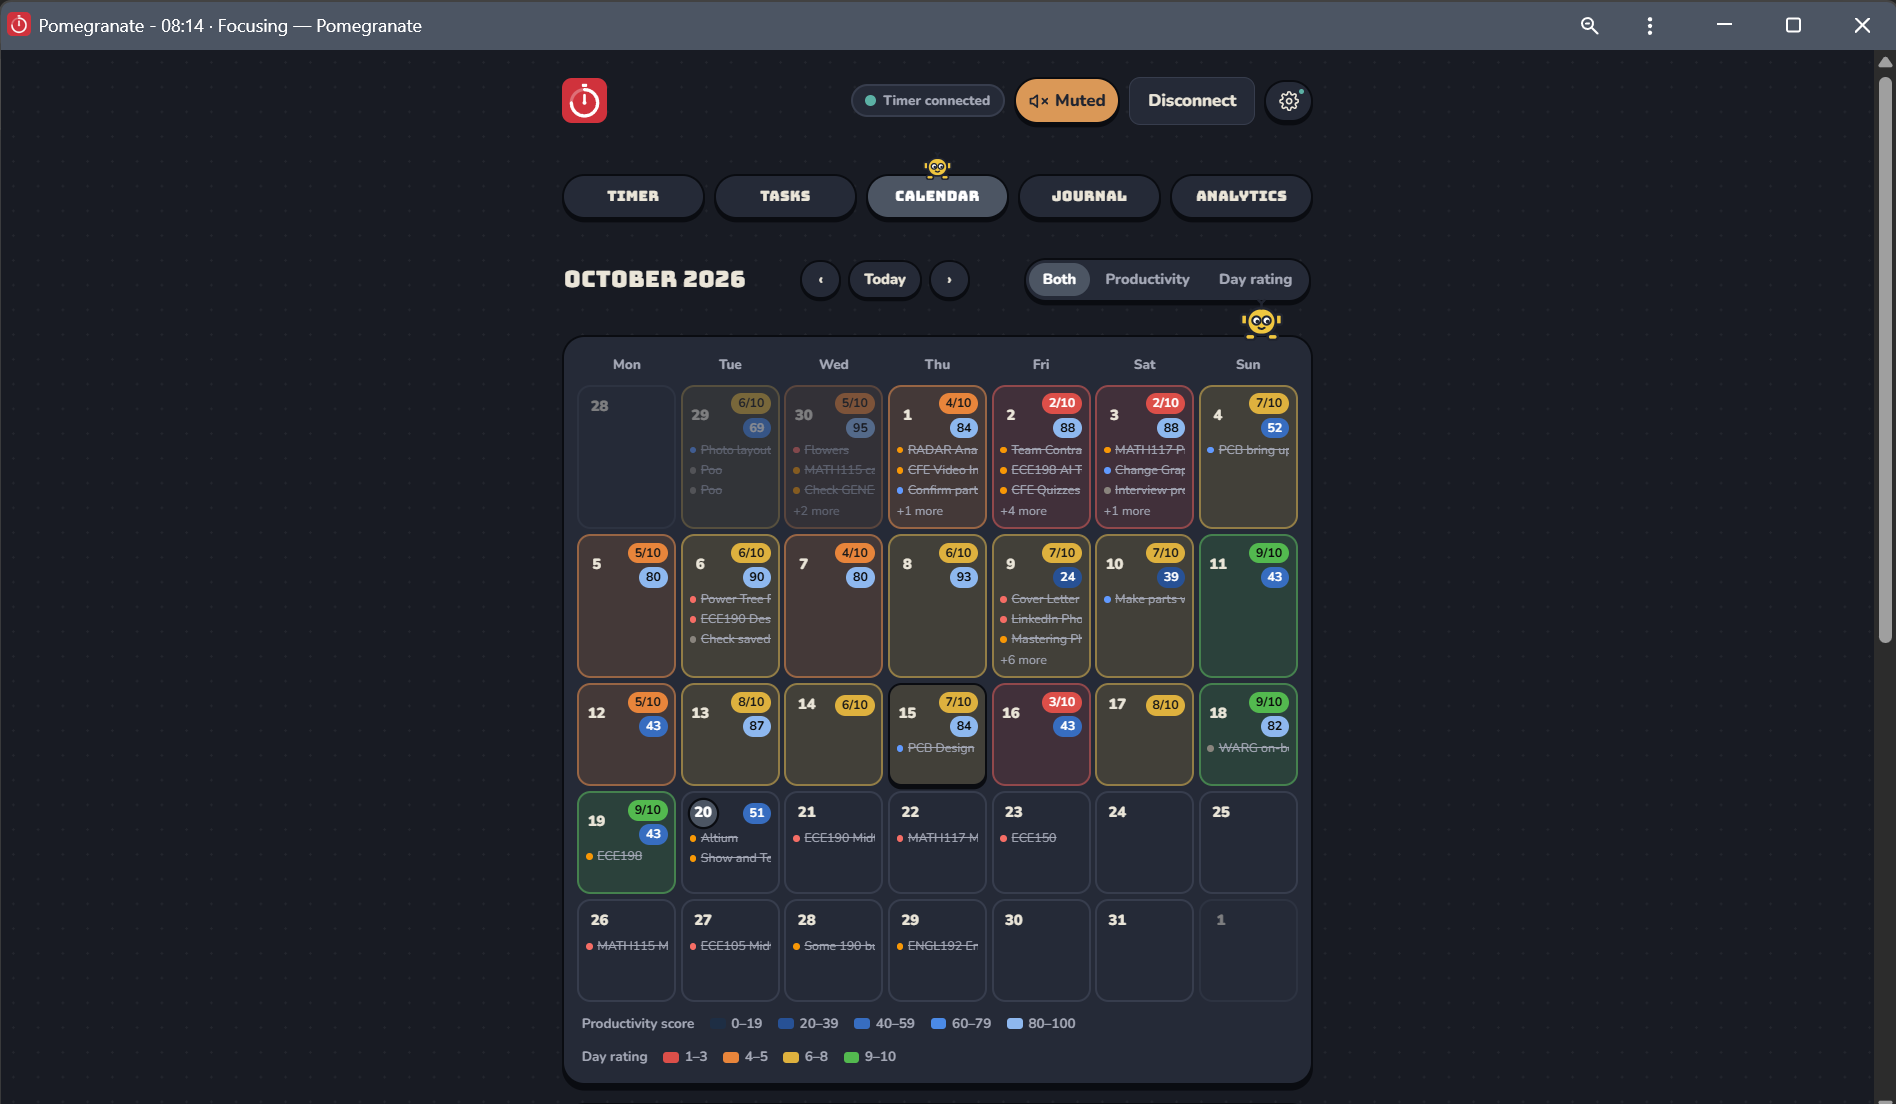
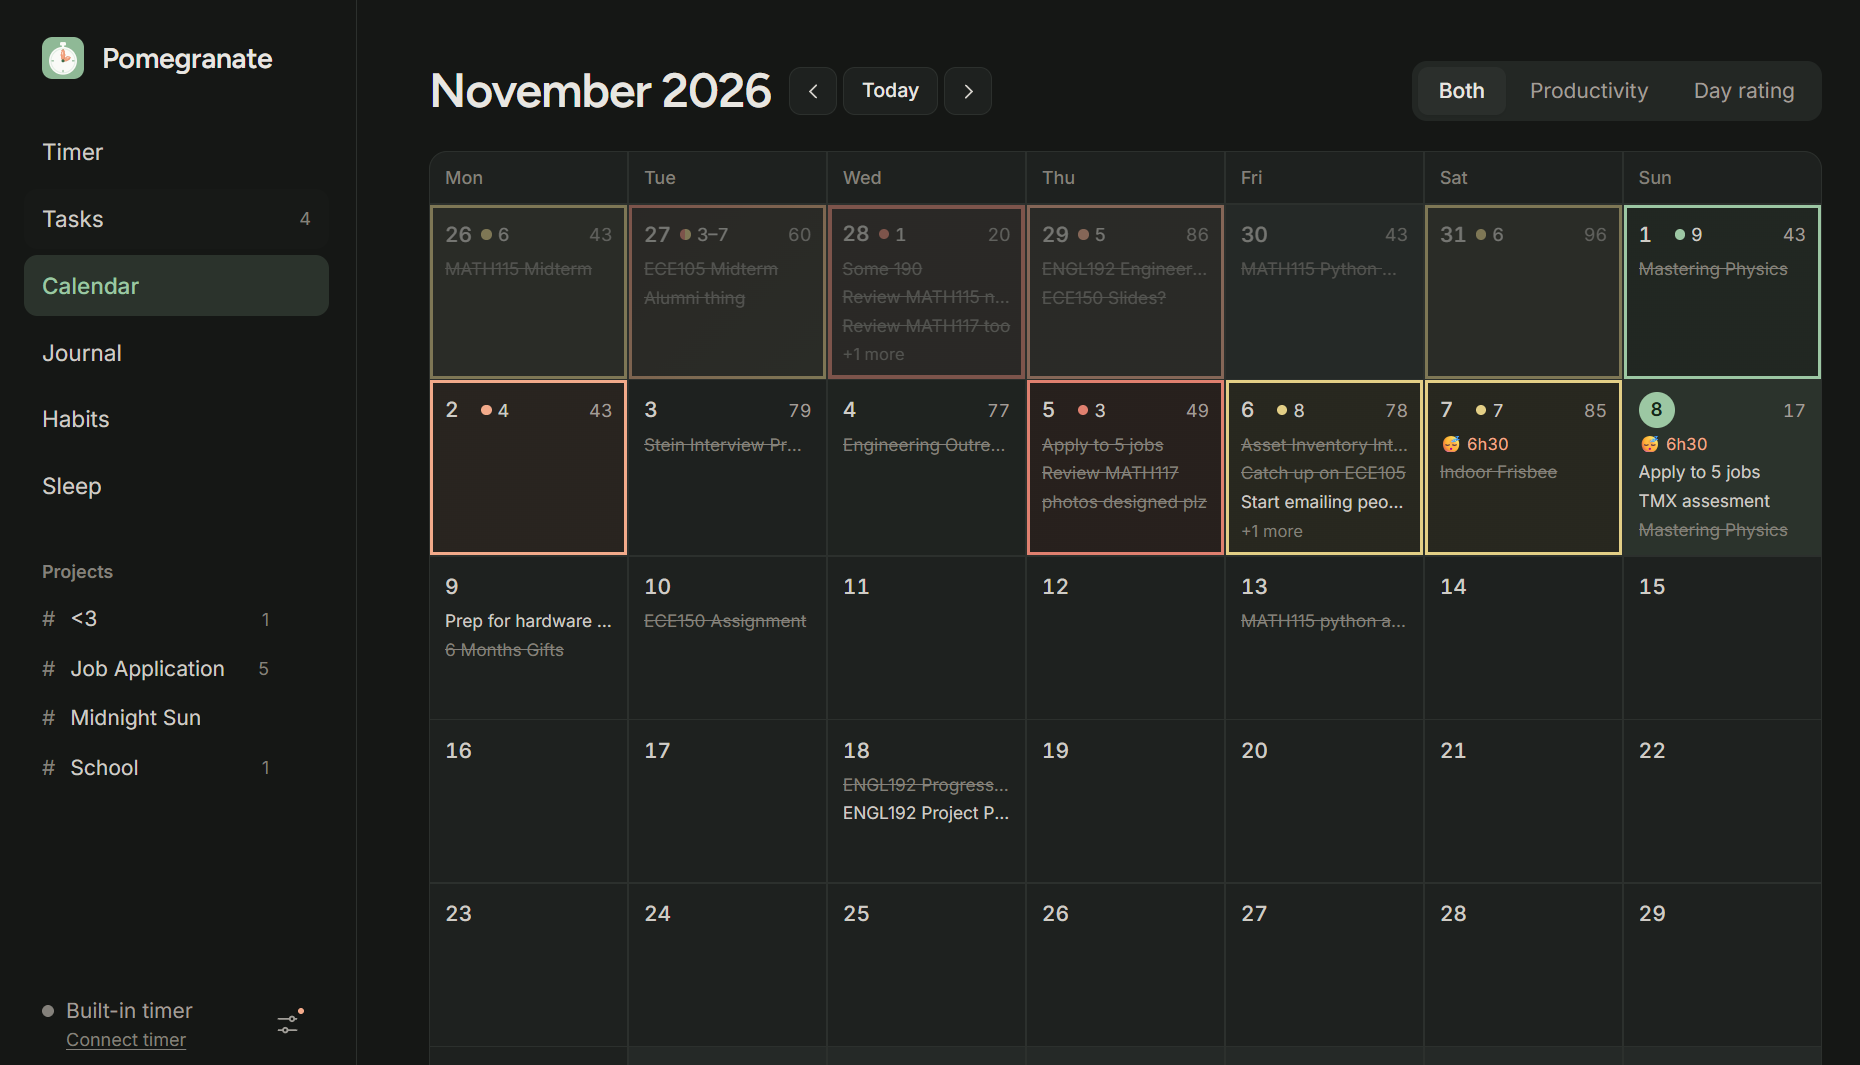
Add files via upload

diff --git a/article-study-app.html b/article-study-app.html
@@ -34,21 +34,37 @@
     </section>
 
     <article class="prose">
-      <p class="lead">Pomegranate started as a remote for my <a href="article-desk-robot.html">Pomodoro timer</a> and kind of snowballed into the app I do all my studying in: timer, to-dos, calendar, journal and stats, synced across my laptop, iPhone and iPad.</p>
+      <p class="lead">Pomegranate started as a remote for my <a href="article-desk-robot.html">Pomodoro timer</a> and kind of snowballed into the app I run my days in: timer, to-dos, calendar, journal, habits and sleep, synced across my laptop, iPhone and iPad.</p>
 
       <figure class="card figure perch bot-gear">
-        <img src="images/study-tracker.jpg" alt="Pomegranate's Timer tab mid-session: a red countdown ring at 43:43, cycle 1 of 3, with Pause and Exit buttons and tabs for Tasks, Calendar, Journal and Analytics">
-        <figcaption>The Timer tab mid-session.</figcaption>
+        <img src="images/pomegranate-timer.png" alt="Pomegranate's Timer tab, ready to start a Deep work 50/10 session, with a green ring around 50:00, a task picker, and today's focus sessions, focus time and score">
+        <figcaption>The Timer tab, ready for a 50/10 deep work session.</figcaption>
       </figure>
 
-      <p>It's a web app you can install like a normal one, with five tabs:</p>
+      <p>It's a web app you can install like a normal one, with six tabs:</p>
       <ul>
         <li><b>Timer:</b> runs on my USB timer, or a built-in one</li>
-        <li><b>Tasks:</b> type "Lab report fri p1 d4 #ECE140" and it sets the due date, priority, difficulty and course at once</li>
-        <li><b>Calendar:</b> what's due, plus each day's score</li>
+        <li><b>Tasks:</b> type "Lab report fri p1 d4 #ECE140" and it sets the due date, priority, difficulty and project at once</li>
+        <li><b>Calendar:</b> what's due, plus each day's score, rating and sleep</li>
         <li><b>Journal:</b> a few lines and a rating out of 10</li>
-        <li><b>Analytics:</b> focus, break and desk time vs. yesterday and last week</li>
+        <li><b>Habits:</b> a month at a glance, one tap per day for yes or no, with streaks</li>
+        <li><b>Sleep:</b> when I went to bed and woke up, and the last two weeks as a chart</li>
       </ul>
+
+      <figure class="card figure">
+        <img src="images/pomegranate-calendar.png?v=3" alt="Pomegranate's Calendar tab for November 2026: each day shows its rating, productivity score, hours slept and tasks, outlined from red to green" loading="lazy">
+        <figcaption>The Calendar: each day's rating, score, sleep and what got done.</figcaption>
+      </figure>
+
+      <figure class="card figure">
+        <img src="images/pomegranate-habits.png" alt="Pomegranate's Habits tab for November 2026: two habits, each with a row of day boxes ticked green for yes or crossed in peach for no, and a 6-day streak" loading="lazy">
+        <figcaption>Habits: green for yes, peach for no.</figcaption>
+      </figure>
+
+      <figure class="card figure">
+        <img src="images/pomegranate-sleep.png" alt="Pomegranate's Sleep tab: bed and wake times for last night, 6h 30m slept, an optional quality rating, and a bar chart of the last 14 nights" loading="lazy">
+        <figcaption>Sleep: log the night, see the last two weeks.</figcaption>
+      </figure>
       <p>The fun stuff is all under the hood.</p>
 
       <h2>USB from a browser</h2>
@@ -73,7 +89,7 @@
 
       <h2>Syncing everything</h2>
       <p>Everything saves locally first so it works offline, and signing in with Google syncs it through Firebase Firestore.</p>
-      <p>Tasks and journal entries go "newest change wins", and deleted stuff leaves a little marker so it doesn't come back from another device. Study time can't work like that (two devices would overwrite each other), so each device keeps its own totals and Analytics adds them up.</p>
+      <p>Tasks, journal entries, habits and sleep go "newest change wins", and deleted stuff leaves a little marker so it doesn't come back from another device. Study time can't work like that (two devices would overwrite each other), so each device keeps its own totals and the app adds them up.</p>
       <p>Running sessions sync too. All the times are absolute ("focus ends at 3:42:10 PM"), so every device counts down on its own. I can start on my laptop and pause from my phone, and if the USB timer's plugged in, the pause goes all the way through to the Arduino. Only the device that started a session logs it, so nothing gets triple-counted.</p>
 
       <h2>Notifications</h2>

diff --git a/index.html b/index.html
@@ -80,7 +80,7 @@
       </article>
 
       <article class="card project" id="pomegranate">
-        <img class="card-img" src="images/pomegranate-calendar.png" alt="Pomegranate's Calendar tab for October 2026, with each day's rating, productivity score and tasks">
+        <img class="card-img" src="images/pomegranate-calendar.png?v=3" alt="Pomegranate's Calendar tab for November 2026, with each day's rating, productivity score, hours slept and tasks">
         <div class="body">
           <div>
             <h3>Pomegranate</h3>
